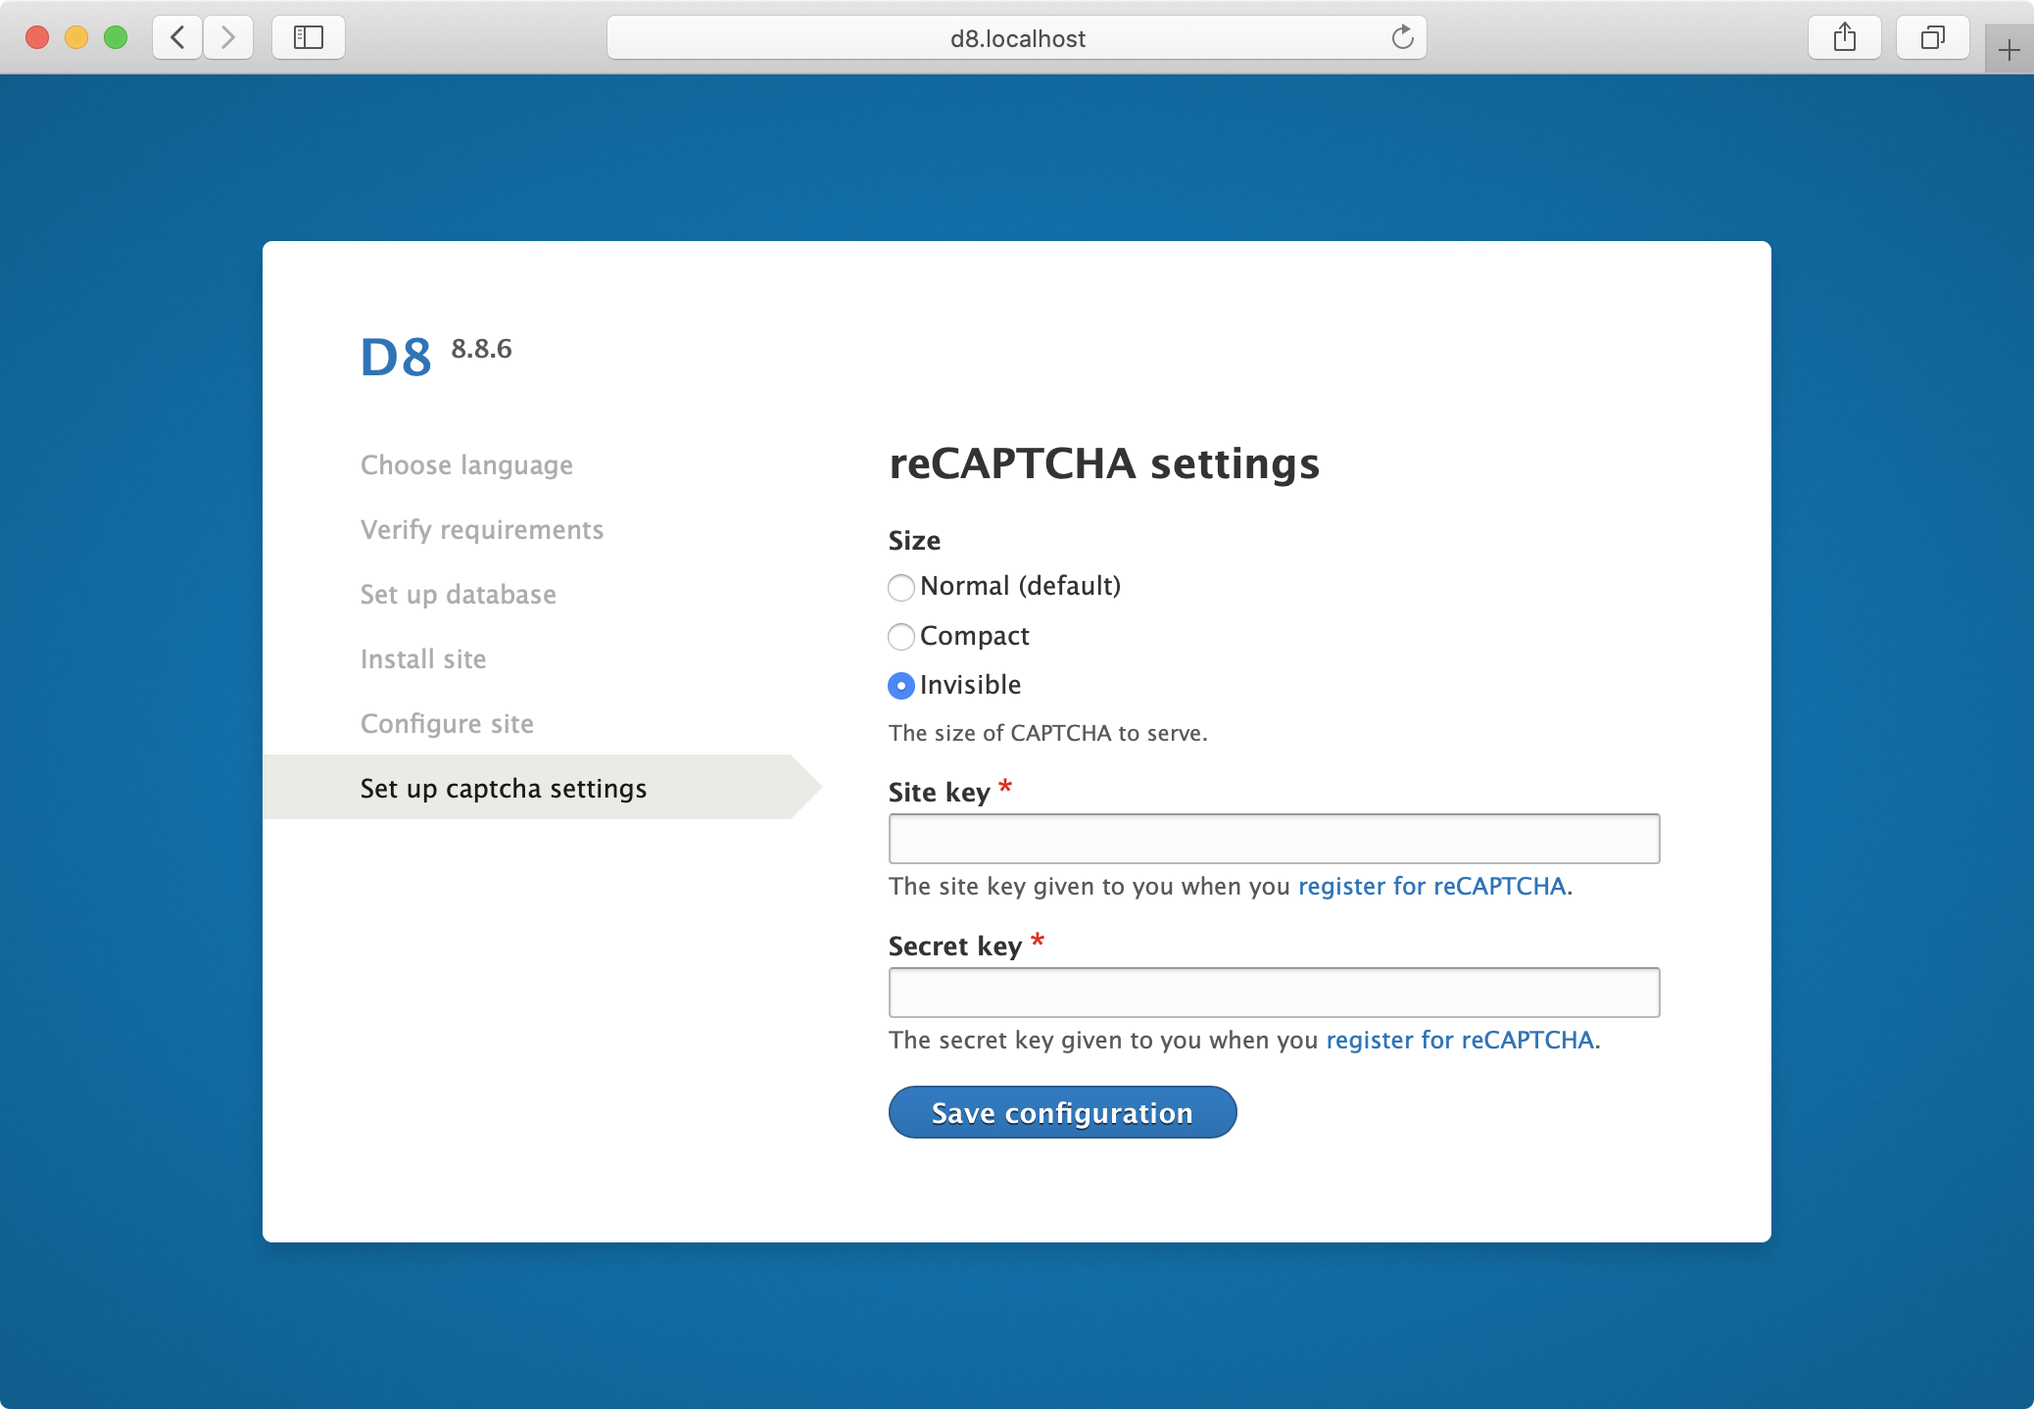
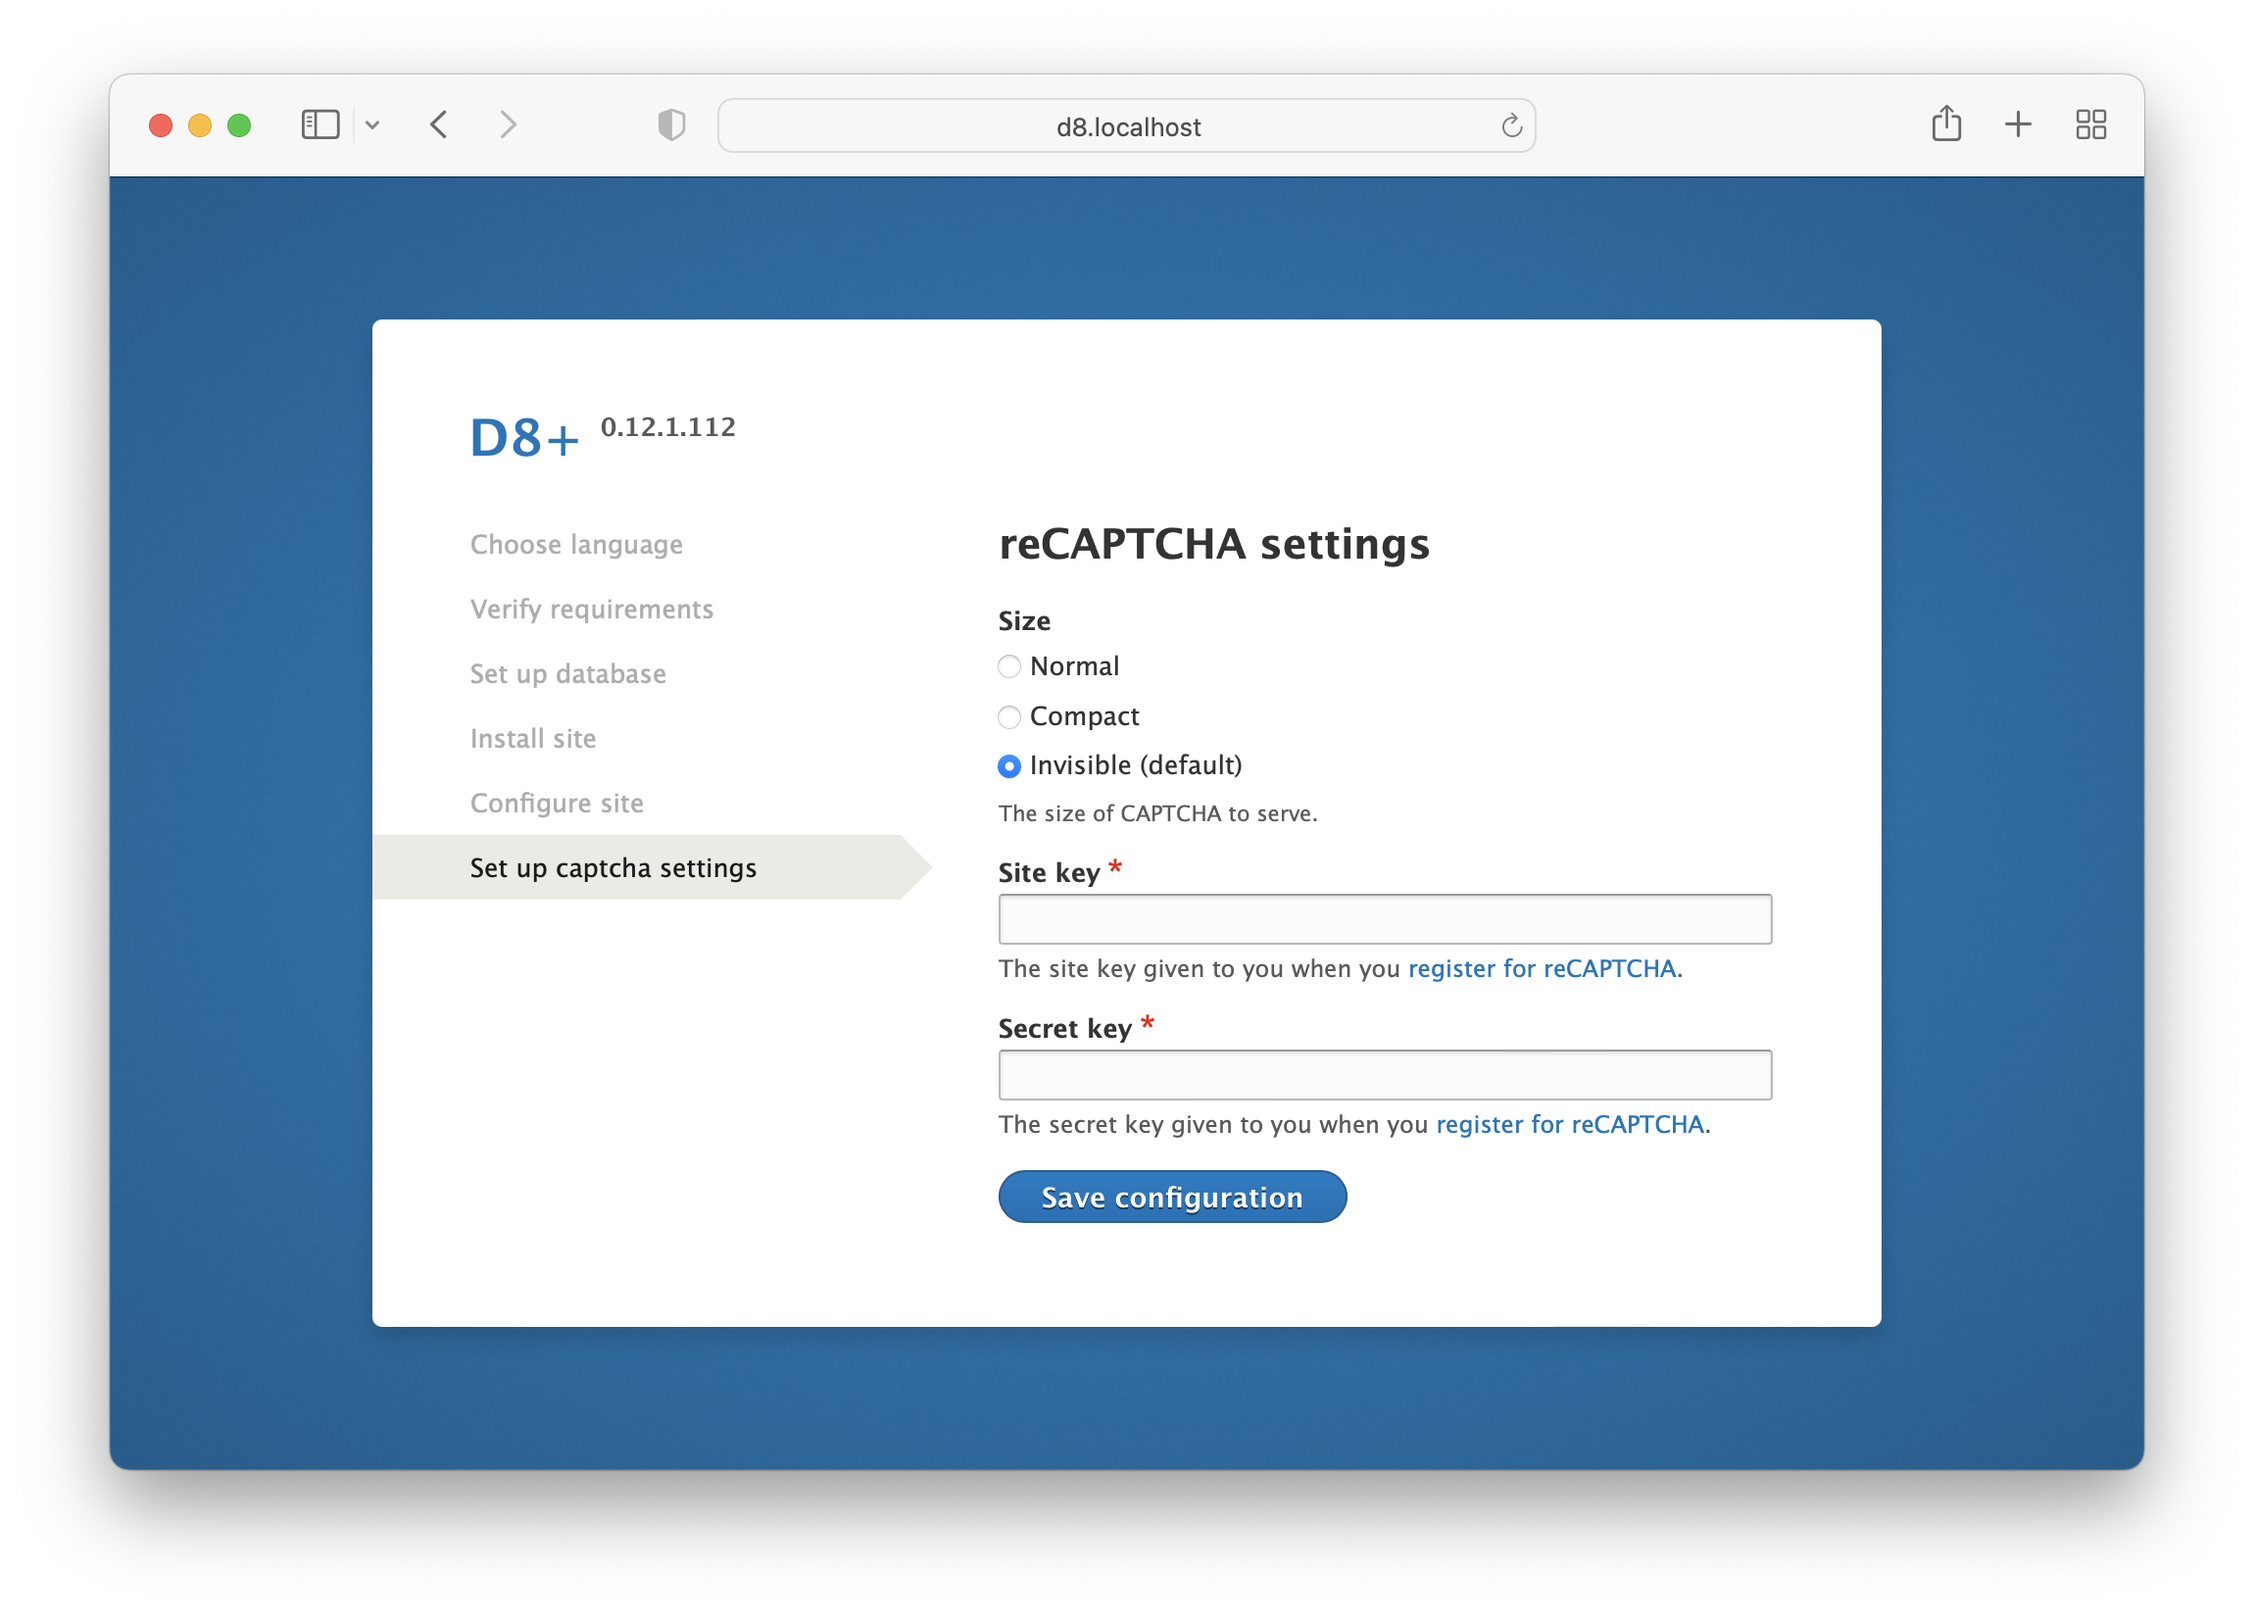
Issue #173: Check which size is actually default before marking it as default

diff --git a/src/Form/D8CaptchaForm.php b/src/Form/D8CaptchaForm.php
@@ -81,7 +81,18 @@ class D8CaptchaForm extends ReCaptchaAdminSettingsForm {
 
     $form['widget']['#type'] = 'container';
     $form['widget']['#weight'] = 0;
-    $form['widget']['recaptcha_size']['#type'] = 'radios';
+
+    $field = &$form['widget']['recaptcha_size'];
+    $field['#type'] = 'radios';
+
+    if (!empty($field['#default_value'])) {
+      $field['#options'][''] = $this->t('Normal');
+
+      $field['#options'][$field['#default_value']] .= sprintf(
+        ' (%s)',
+        $this->t('default')
+      );
+    }
 
     foreach (Element::children($form['widget']) as $key) {
       if ($key !== 'recaptcha_size') {

diff --git a/README.md b/README.md
@@ -1,7 +1,7 @@
-# Profile for Drupal 8/9
+# Installation profile for Drupal 8/9
 
 ## Features
 
-### New installation step for setting captcha keys:
+### New installation step for setting captcha keys
 
-![captcha](https://raw.githubusercontent.com/chmez/d8/master/images/captcha.png "captcha")
+![captcha](images/captcha.png "captcha")
